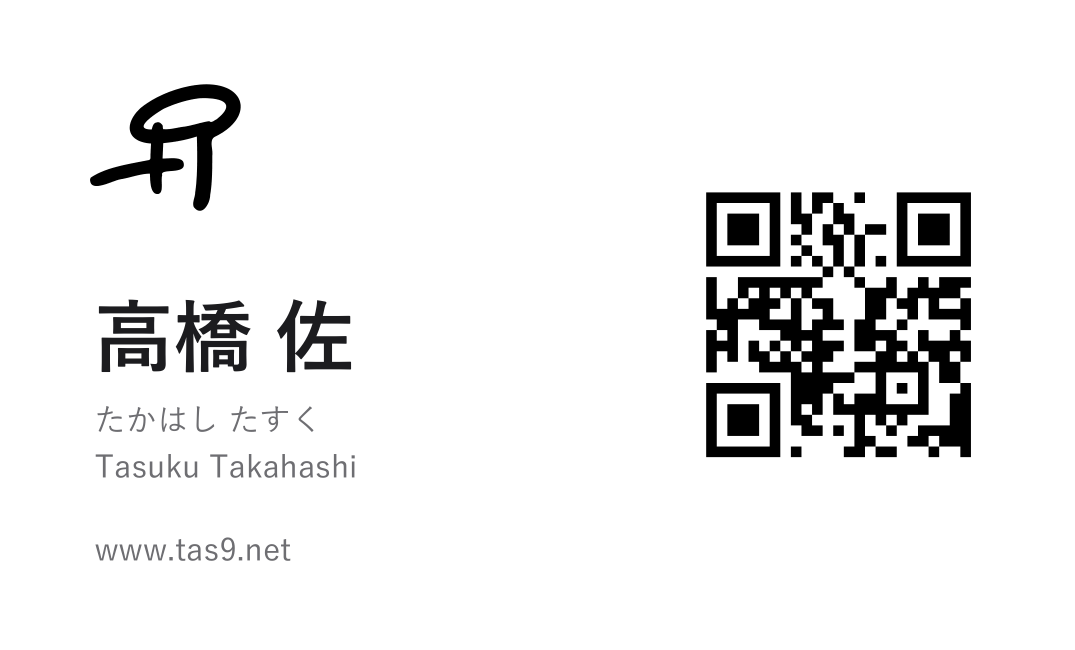
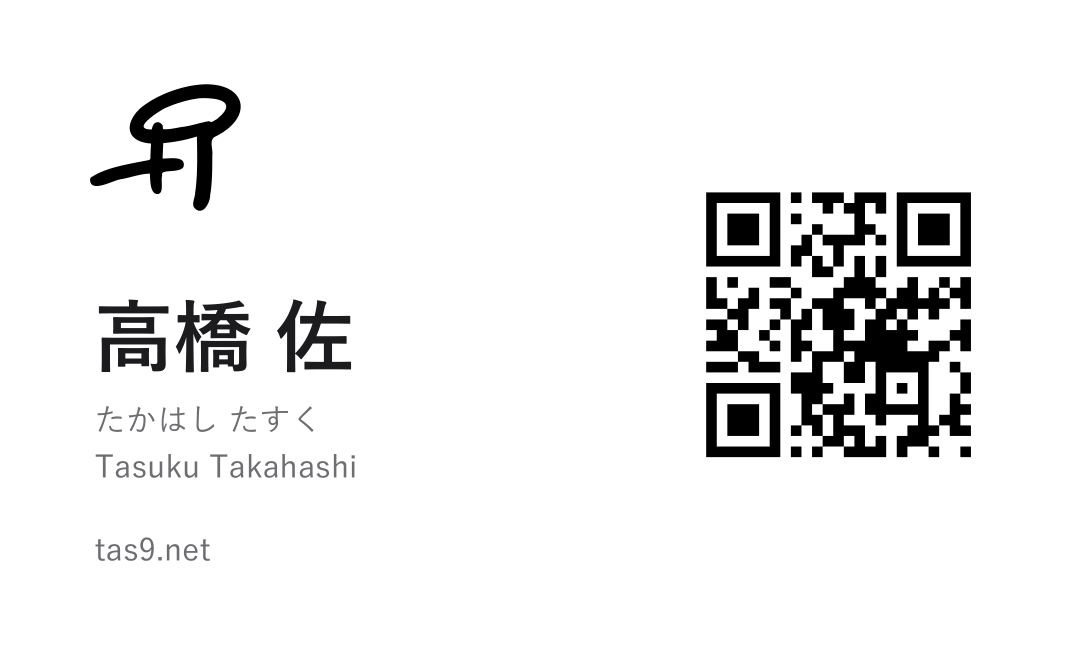
印刷原稿を正式アドレス tas9.net に更新（名刺・ガジェット裏の QR シール・ロック画面用 QR）
- make_label.py を新設（シール・qr_1000・qr.svg の再生成手順をコード化）
- www 版の印刷物・タグも転送で有効だが、新規に印刷するものは短い方に揃える

Changed region(s): [[0.6447, 0.2769, 0.9209, 0.7077], [0.0921, 0.8308, 0.2763, 0.8615]]

diff --git a/print/make_label.py b/print/make_label.py
@@ -1,0 +1,42 @@
+"""ガジェット裏の QR シール（34×34mm・300dpi）と、ロック画面用の大きい QR・型押し用 SVG を作る。
+実行: py print/make_label.py（このフォルダ直下から）。必要: qrcode[pil]。
+URL は名刺ページの正式アドレス（2026-09-15 から www 無し）。www 版のタグ・印刷物も転送で有効。
+"""
+from pathlib import Path
+
+import qrcode
+from PIL import Image, ImageDraw, ImageFont
+from qrcode.image.svg import SvgPathImage
+
+HERE = Path(__file__).resolve().parent
+URL = "https://tas9.net/"
+DPI = 300
+MM = DPI / 25.4
+
+
+def make(box, border):
+    q = qrcode.QRCode(error_correction=qrcode.constants.ERROR_CORRECT_M, box_size=box, border=border)
+    q.add_data(URL)
+    q.make(fit=True)
+    return q
+
+
+def main() -> None:
+    size = round(34 * MM)  # 402px
+    q = make(13, 3)
+    img = q.make_image(fill_color="black", back_color="white").convert("RGB")
+    label = Image.new("RGB", (size, size), "white")
+    label.paste(img, ((size - img.width) // 2, 6))
+    d = ImageDraw.Draw(label)
+    font = ImageFont.truetype("C:/Windows/Fonts/arial.ttf", 26)
+    text = "tas9.net"
+    d.text(((size - d.textlength(text, font=font)) / 2, img.height + 6), text, fill="black", font=font)
+    label.save(HERE / "label_34mm_300dpi.png", dpi=(DPI, DPI))
+    print("label", label.size, "modules", q.modules_count)
+    make(48, 4).make_image(fill_color="black", back_color="white").convert("RGB").save(HERE / "qr_1000.png")
+    make(10, 4).make_image(image_factory=SvgPathImage).save(str(HERE / "qr.svg"))
+    print("wrote label_34mm_300dpi.png / qr_1000.png / qr.svg")
+
+
+if __name__ == "__main__":
+    main()

diff --git a/print/make_card.py b/print/make_card.py
@@ -21,7 +21,7 @@ from reportlab.pdfgen import canvas
 from svglib.svglib import svg2rlg
 
 HERE = Path(__file__).resolve().parent
-URL = "https://www.tas9.net/"
+URL = "https://tas9.net/"
 INK = HexColor("#1d1d1f")
 SUB = HexColor("#6e6e73")
 CARD_W, CARD_H = 91 * mm, 55 * mm
@@ -49,7 +49,7 @@ def build_card() -> Drawing:
     d.add(String(8 * mm, 14.5 * mm, "Tasuku Takahashi", fontName="YuGothM", fontSize=7.5, fillColor=SUB))
 
     # URL: 左下
-    d.add(String(8 * mm, 7.5 * mm, "www.tas9.net", fontName="YuGothM", fontSize=7.5, fillColor=SUB))
+    d.add(String(8 * mm, 7.5 * mm, "tas9.net", fontName="YuGothM", fontSize=7.5, fillColor=SUB))
 
     # QR: 右側・26mm 角（静穏域 2 モジュール込み）・上下中央。
     # qrcode ライブラリの「1本のパス」SVG を使う（モジュール間に継ぎ目が出ない）。
